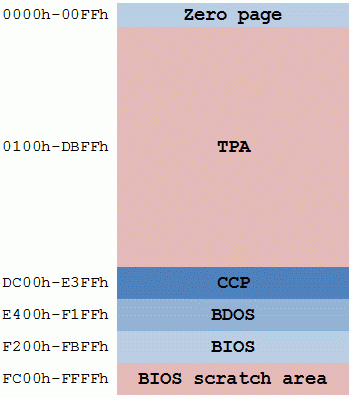
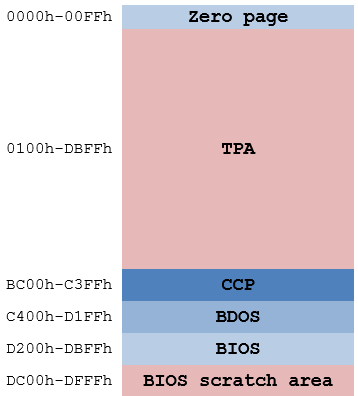
Change from 62k to 54k system.

Changed region(s): [[0.0, 0.0, 0.9972, 1.0], [0.5983, 0.3333, 0.7123, 0.3939]]

diff --git a/rom.js b/rom.js
@@ -15,71 +15,71 @@
 
 memory.rom=Array(32768);
 memory.biosihx=(function(){/*
-:0DFC000000000000000000000000006FFF89
-:0CFC0D0000000000000087FC4BFC07FD1D
-:0CFC190087FD6FFF00000000000087FC6A
-:06FC25005AFC27FD01FE60
-:0CFC2B006FFF00000000000087FC69FC77
-:0CFC370047FD7BFE6FFF00000000000096
-:06FC430087FC78FC67FD60
-:0DFC4900F5FE4000040F00CB037F00C0005B
-:0EFC5600200001004000040F00CF037F00C01B
-:0EFC6400002000F4004000040F00CF037F00DA
-:0DFC7200C0002000E8014000040F00CF0397
-:08FC7F007F00C0002000DC0240
-:01FEF500000C
-:0AF20000C342F2C3AAF2C31CF3C319
-:09F20A0031F3C346F3C35BF3C307
-:09F213005CF3C35DF3C360F3C3B7
-:09F21C0088F3C3B3F3C3C2F3C3CA
-:09F22500D1F3C3E0F3C32DF4C3DF
-:09F22E0074F4C376F4C333F2C397
-:09F2370036F2C339F2C33CF2C304
-:0EF240003FF2F33140FF3E92D3033EFFD30274
-:0DF24E003E02D3033EC33200003205002112
-:0DF25B0003F22201002106E4220600AF327A
-:0DF2680003003E03D3032177F2CD7AF4C3F7
-:0EF27500AAF22A2A2A2043502F4B4D2042494C
-:0EF283004F53204B4D2D32303030202031398A
-:0EF2910035324B20627974657320782034206A
-:0DF29F00447269766573202A2A2A00F33133
-:0DF2AC0040FF3E92D3033EFFD3020E00CD83
-:0EF2B90088F3010000CDB3F32100DC1100004A
-:0EF2C700424BCDC2F3444DCDD1F3CDE0F33D2B
-:0EF2D500281501800009133E2CBB20E63E02E6
-:0DF2E300D3033A03004FC300DC21F4F2CD49
-:0EF2F0007AF418FE4469736B20526561642045
-:0EF2FE004572726F7220647572696E67206CC3
-:0EF30C006F6164696E67204343502F42444F87
-:0DF31A005300ED7300FC3180FFCD8BF4CD6E
-:0CF3270033F2CD84F4ED7B00FCC9ED73E3
-:0CF3330000FC3180FFCD8BF4CD36F2CD14
-:0EF33F0084F4ED7B00FCC9ED7300FC3180FF0F
-:0BF34D00CD8BF4CD39F2CD84F4ED7BC4
-:0EF3580000FCC9C9C93E1AC92200FC2A02FCE9
-:0EF366002D200521F40018132D200521E801AB
-:0EF37400180B2D200521DC02180321010022B8
-:0EF3820003FC2A00FCC93200FC790D20052195
-:0EF390001BFC18140D2005212BFC180C0D2061
-:0EF39E0005213BFC1804AF210BFC2209FC4F9B
-:0CF3AC003202FC3A00FCC93200FC79324D
-:0BF3B80003FC783204FC3A00FCC93270
-:0BF3C30000FC793205FC783206FC3AB1
-:0CF3CE0000FCC93200FC793207FC7832E8
-:0EF3DA0008FC3A00FCC9ED7300FC3180FFE531
-:0EF3E800C5D5CD8BF42A05FC545D2A03FCCB61
-:0EF3F60025CB14CB25CB14CB25CB14CB25CBAC
-:0EF4040014CB25CB14CB25CB1419CD3CF2CD67
-:0EF4120084F4FE01280D2A07FC545D2180FFC2
-:0EF42000018000EDB0D1C1E1ED7B00FCC9ED33
-:0DF42E007300FC3180FFE5C5D52A07FC11F5
-:0DF43B0080FF018000EDB02A05FC545D2A21
-:0EF4480003FCCB25CB14CB25CB14CB25CB144A
-:0EF45600CB25CB14CB25CB14CB25CB1419CD55
-:0DF464008BF4CD3FF2CD84F4D1C1E1ED7BFE
-:0EF4710000FCC9AFC96069C9C94EAFB9C8CDAA
-:0EF47F0046F32318F6F53E02D303F1C9F53E1D
-:05F48D0003D303F1C9E7
+:0DDC000000000000000000000000006FDFC9
+:0CDC0D0000000000000087DC4BDC07DD9D
+:0CDC190087DD6FDF00000000000087DCEA
+:06DC25005ADC27DD01DEE0
+:0CDC2B006FDF00000000000087DC69DCF7
+:0CDC370047DD7BDE6FDF00000000000016
+:06DC430087DC78DC67DDE0
+:0DDC4900F5DE4000040F00CB037F00C0009B
+:0EDC5600200001004000040F00CF037F00C03B
+:0EDC6400002000F4004000040F00CF037F00FA
+:0DDC7200C0002000E8014000040F00CF03B7
+:08DC7F007F00C0002000DC0260
+:01DEF500002C
+:0AD20000C342D2C3AAD2C31CD3C399
+:09D20A0031D3C346D3C35BD3C387
+:09D213005CD3C35DD3C360D3C337
+:09D21C0088D3C3B3D3C3C2D3C34A
+:09D22500D1D3C3E0D3C32DD4C35F
+:09D22E0074D4C376D4C333D2C317
+:09D2370036D2C339D2C33CD2C384
+:0ED240003FD2F33140DF3E92D3033EFFD302D4
+:0DD24E003E02D3033EC33200003205002132
+:0DD25B0003D22201002106C4220600AF32DA
+:0DD2680003003E03D3032177D2CD7AD4C357
+:0ED27500AAD22A2A2A2043502F4B4D2042498C
+:0ED283004F53204B4D2D3230313020203139A9
+:0ED2910035324B20627974657320782034208A
+:0DD29F00447269766573202A2A2A00F33153
+:0DD2AC0040DF3E92D3033EFFD3020E00CDC3
+:0ED2B90088D3010000CDB3D32100BC110000CA
+:0ED2C700424BCDC2D3444DCDD1D3CDE0D33DAB
+:0ED2D500281501800009133E2CBB20E63E0206
+:0DD2E300D3033A03004FC300BC21F4D2CDA9
+:0ED2F0007AD418FE4469736B20526561642085
+:0ED2FE004572726F7220647572696E67206CE3
+:0ED30C006F6164696E67204343502F42444FA7
+:0DD31A005300ED7300DC3180DFCD8BD4CDEE
+:0CD3270033D2CD84D4ED7B00DCC9ED7363
+:0CD3330000DC3180DFCD8BD4CD36D2CDB4
+:0ED33F0084D4ED7B00DCC9ED7300DC3180DFAF
+:0BD34D00CD8BD4CD39D2CD84D4ED7B44
+:0ED3580000DCC9C9C93E1AC92200DC2A02DC69
+:0ED366002D200521F40018132D200521E801CB
+:0ED37400180B2D200521DC02180321010022D8
+:0ED3820003DC2A00DCC93200DC790D20052115
+:0ED390001BDC18140D2005212BDC180C0D20C1
+:0ED39E0005213BDC1804AF210BDC2209DC4F1B
+:0CD3AC003202DC3A00DCC93200DC7932CD
+:0BD3B80003DC783204DC3A00DCC932F0
+:0BD3C30000DC793205DC783206DC3A31
+:0CD3CE0000DCC93200DC793207DC783268
+:0ED3DA0008DC3A00DCC9ED7300DC3180DFE5D1
+:0ED3E800C5D5CD8BD42A05DC545D2A03DCCBE1
+:0ED3F60025CB14CB25CB14CB25CB14CB25CBCC
+:0ED4040014CB25CB14CB25CB1419CD3CD2CDA7
+:0ED4120084D4FE01280D2A07DC545D2180FF22
+:0ED42000018000EDB0D1C1E1ED7B00DCC9ED73
+:0DD42E007300DC3180DFE5C5D52A07DC1175
+:0DD43B0080FF018000EDB02A05DC545D2A61
+:0ED4480003DCCB25CB14CB25CB14CB25CB148A
+:0ED45600CB25CB14CB25CB14CB25CB1419CD75
+:0DD464008BD4CD3FD2CD84D4D1C1E1ED7B7E
+:0ED4710000DCC9AFC96069C9C94EAFB9C8CDEA
+:0ED47F0046D32318F6F53E02D303F1C9F53E5D
+:05D48D0003D303F1C907
 :00000001FF
 */}).toString().match(/\/\*([\s\S]*)\*\//)[1];
 memory.initrom=function(){
@@ -91,13 +91,13 @@ memory.initrom=function(){
 	/*
 	(0000)
 	ld hl,7200
-	ld de,f200
+	ld de,d200
 	ld bc,0e00
 	ldir
-	jp f200
+	jp d200
 	*/
 	var a=[
-	0x21,0x00,0x72,0x11,0x00,0xf2,0x01,0x00,0x0e,0xed,0xb0,0xc3,0x00,0xf2
+	0x21,0x00,0x72,0x11,0x00,0xd2,0x01,0x00,0x0e,0xed,0xb0,0xc3,0x00,0xd2
 	];
 	for(i=0;i<a.length;i++){
 		memory.rom[i]=a[i];
@@ -120,7 +120,7 @@ memory.initrom=function(){
 		for(var j=0;j<bytes;j++){
 			var b=parseInt(m[4].substr(j*2,2),16);
 			//memory.write(addr+j,b);
-			this.rom[addr+j-0x8000]=b;
+			this.rom[addr+j-0x6000]=b;
 		}
 		// Checksum is ignored.
 	}
@@ -128,7 +128,7 @@ memory.initrom=function(){
 /*
 ; This file can be assembled by SDCC:
 ; sdasz80 -o %1
-; sdcc *.rel -mz80 --code-loc 0xf200 --data-loc 0xfc00 --no-std-crt0
+; sdcc *.rel -mz80 --code-loc 0xd200 --data-loc 0xdc00 --no-std-crt0
 
 ; There are four drives, A, B, C, and D
 ; 128 bytes/sector
@@ -144,8 +144,8 @@ memory.initrom=function(){
 .area _DATA
 ; Data area follows
 ; This area is also used in ROM routines
-; Data area is 0xFC00-0xFF7F, including stack area.
-; 0xFF80-0xFFFF (128 bytes) is used for buffer for disk read/write
+; Data area is 0xDC00-0xDF7F, including stack area.
+; 0xDF80-0xDFFF (128 bytes) is used for buffer for disk read/write
 ; 
 
 storeSP:   .dw 0
@@ -158,9 +158,9 @@ pDPH:      .dw 0
 jWBOOT     =0x0000  ; JUMP WBOOT address
 IOBYTE     =0x0003  ; IOBYTE for CBIOS
 jBDOS      =0x0005  ; JUMP BDOS address
-ccpStart   =0xdc00  ; Using 62K system
-bootStack  =0xFF40  ; Stark area for BOOT is from 0xFF00 and to 0xFF3F
-biosStack  =0xFF80  ; Stack area for BIOS is from 0xFF00 and to 0xFF7F
+ccpStart   =0xbc00  ; Using 54K system
+bootStack  =0xDF40  ; Stark area for BOOT is from 0xDF00 and to 0xDF3F
+biosStack  =0xDF80  ; Stack area for BIOS is from 0xDF00 and to 0xDF7F
 diskBuff   =0xFF80  ; 128 bytes buffer for disk read/write by BIOS
 
 ; Disk Parameter Header (DPH) follows
@@ -265,30 +265,30 @@ trans:  .db 0
 
 .area _CODE
 ; BIOS jump table (CP/M)
-JP CBOOT           ;0xf200
-JP WBOOT           ;0xf203
-JP CONST           ;0xf206
-JP CONIN           ;0xf209
-JP CONOUT          ;0xf20c
-JP LIST            ;0xf20f
-JP PUNCH           ;0xf212
-JP READER          ;0xf215
-JP HOME            ;0xf218
-JP SELDSK          ;0xf21b
-JP SETTRK          ;0xf21e
-JP SETSEC          ;0xf221
-JP SETDMA          ;0xf224
-JP READ            ;0xf227
-JP WRITE           ;0xf22a
-JP LISTST          ;0xf22d
-JP SECTRAN         ;0xf230
+JP CBOOT           ;0xd200
+JP WBOOT           ;0xd203
+JP CONST           ;0xd206
+JP CONIN           ;0xd209
+JP CONOUT          ;0xd20c
+JP LIST            ;0xd20f
+JP PUNCH           ;0xd212
+JP READER          ;0xd215
+JP HOME            ;0xd218
+JP SELDSK          ;0xd21b
+JP SETTRK          ;0xd21e
+JP SETSEC          ;0xd221
+JP SETDMA          ;0xd224
+JP READ            ;0xd227
+JP WRITE           ;0xd22a
+JP LISTST          ;0xd22d
+JP SECTRAN         ;0xd230
 
 ; Environ specific codes jump table (infinite loop for emulator)
-romCONST:  JP romCONST  ;0xf233
-romCONIN:  JP romCONIN  ;0xf236
-romCONOUT: JP romCONOUT ;0xf239
-romREAD:   JP romREAD   ;0xf23c
-romWRITE:  JP romWRITE  ;0xf23f
+romCONST:  JP romCONST  ;0xd233
+romCONIN:  JP romCONIN  ;0xd236
+romCONOUT: JP romCONOUT ;0xd239
+romREAD:   JP romREAD   ;0xd23c
+romWRITE:  JP romWRITE  ;0xd23f
 
 ; CP/M BIOS routines
 CBOOT:
@@ -336,7 +336,7 @@ CBOOT:
 	jp WBOOT
 
 WELCOMEMSG:
-.ascii "*** CP/KM BIOS KM-2000  1952K bytes x 4 Drives ***"
+.ascii "*** CP/KM BIOS KM-2010  1952K bytes x 4 Drives ***"
 .db 0
 
 WBOOT:
@@ -360,8 +360,8 @@ WBOOT:
 	; Set track #0
 	ld bc,#0x0000
 	call SETTRK
-	; Destination starts from 0xdc00
-	ld hl,#0xdc00
+	; Destination starts from CCP Address
+	ld hl,#ccpStart
 	; Sector # strats from 0x0000
 	ld de,#0x0000
 	

diff --git a/disk.js b/disk.js
@@ -62,24 +62,24 @@ disk.init=function(){
 		// Pick up all byte data and write to memory
 		for(var j=0;j<bytes;j++){
 			var b=parseInt(m[4].substr(j*2,2),16);
-			this.cpmdisks[addr+j-0xdc00]=b;
+			this.cpmdisks[addr+j-0xbc00]=b;
 		}
 		// Checksum is ignored.
 	}
 };
 disk.diskdata=(function(){/*
-:0EDC0000F33100DC2115DC0E0ACD0CF24E23B0
-:0EDC0E00AFB920F77618EB0A0A546F20737432
-:0EDC1C006172742043502F4D20322E322C2086
-:0EDC2A00612076616C6964206469736B206907
-:0EDC38006D61676520636F6E7461696E696E61
-:0EDC4600672043504D2E5359532069732072AE
-:0EDC54006575697265642E0A546F206F6274E4
-:0EDC620061696E20746865206469736B2069C7
-:0EDC70006D6167652C20676F20746F3A0A683B
-:0EDC7E007474703A2F2F7777772E7265636675
-:0EDC8C006F722E6E65742F70726F6A6563740E
-:08DC9A00732F63706D2F0A0067
+:0EBC0000F33100BC2115BC0E0ACD0CD24E2330
+:0EBC0E00AFB920F77618EB0A0A546F20737452
+:0EBC1C006172742043502F4D20322E322C20A6
+:0EBC2A00612076616C6964206469736B206927
+:0EBC38006D61676520636F6E7461696E696E81
+:0EBC4600672043504D2E5359532069732072CE
+:0EBC54006575697265642E0A546F206F627404
+:0EBC620061696E20746865206469736B2069E7
+:0EBC70006D6167652C20676F20746F3A0A685B
+:0EBC7E007474703A2F2F7777772E7265636695
+:0EBC8C006F722E6E65742F70726F6A6563742E
+:08BC9A00732F63706D2F0A0087
 :00000001FF
 */}).toString().match(/\/\*([\s\S]*)\*\//)[1];
 disk.init();
@@ -90,9 +90,9 @@ disk.init();
 ; 
 ; This file can be assembled by SDCC:
 ; sdasz80 -o %1
-; sdcc *.rel -mz80 --code-loc 0xdc00 --data-loc 0xfc00 --no-std-crt0
+; sdcc *.rel -mz80 --code-loc 0xbc00 --data-loc 0xdc00 --no-std-crt0
 
-CONOUT       =0xf20c
+CONOUT       =0xd20c
 
 .area _CODE
 

diff --git a/main.js b/main.js
@@ -24,9 +24,9 @@ romREAD:   JP 0x0000 ;0xf23c
 romWRITE:  JP 0x0000 ;0xf23f
 */
 z80.codeC3=function(){
-	if (this.regPC<0xF234 || 0xF240<this.regPC) return this.codeC3copy();
+	if (this.regPC<0xD234 || 0xD240<this.regPC) return this.codeC3copy();
 	switch(this.regPC){
-		case 0xf234:
+		case 0xd234:
 			//0C-0F CONST (console status; Returns its status in A; 0 if no character is ready, 0FFh if one is.)
 			if (i8255.const()) {
 				z80.loadA(0xff);
@@ -34,7 +34,7 @@ z80.codeC3=function(){
 				z80.loadA(0x00);
 			}
 			break;
-		case 0xf237:
+		case 0xd237:
 			//14-17 CONIN (console in; Wait until the keyboard is ready to provide a character, and return it in A.)
 			if (i8255.const()) {
 				// There is key-in.
@@ -44,16 +44,16 @@ z80.codeC3=function(){
 				return this.codeC3copy();
 			}
 			break;
-		case 0xf23a:
+		case 0xd23a:
 			//1C-1F CONOUT (console out; Write the character in C to the screen.)
 			display.writeChar(z80.regC);
 			break;
-		case 0xf23d:
+		case 0xd23d:
 			// READ
 			disk.read(z80.regHL);
 			z80.loadA(0x00);
 			break;
-		case 0xf240:
+		case 0xd240:
 			// WRITE
 			disk.write(z80.regHL);
 			z80.loadA(0x00);
